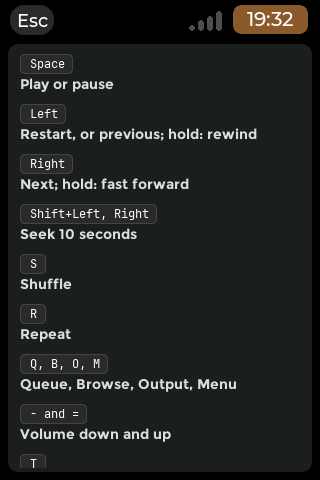
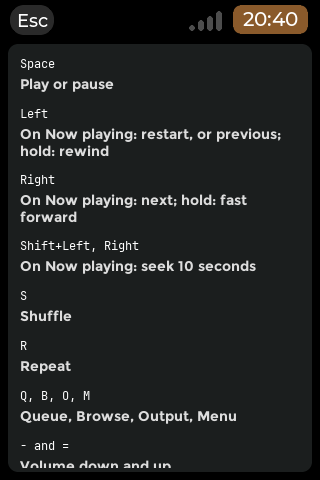
Vinyl 0.2.0 docs: design QA run 1, texts to confirm, Keys and Sleep shots
decisions.md: "Design QA of 0.2.0, run 1": the keypad echo, Ctrl+O, long
and CJK names, pick lists that close (owner-approved), the coordinator's
decisions (About and keys as two rows, This album or queue, the ReplayGain
pick list as the coordinator's design), the Sleep timer strip, the Keys
page, the texts for the owner to confirm. README: those texts, Ctrl+O, seven
transport keys at 480x320, the grey not-connected output, 77 scenes.
BOARD-TESTS: B32 presses T, R and 9; B33 follows the closing page.
Screenshots retaken: 13 (the Sleep timer's strip after the rows), 16 and 19
(the Keys page's flat key names).

Claude-Session: https://claude.ai/code/session_01DZirtLRRFpxSjax5Qp5ZSW

diff --git a/apps/vinyl/README.md b/apps/vinyl/README.md
@@ -38,11 +38,11 @@ The deck (640x480), square (480x480) and large (800x480, two panes), the Menu an
 | **Browser** (the root) | `~/Music` and the mounted drives (`/media/<user>`, `/run/media/<user>`, `/mnt`): folders A-Z, playlists (`.m3u`, `.m3u8`), tracks A-Z (natural order) with their title tags and lengths; the mini player at the bottom. A track plays its folder as the queue; a playlist plays its entries. |
 | **Now playing** | cover art (embedded JPEG or PNG, else the drawn sleeve) with the record sliding out (its label about a third out, with a dot and a centre ring that show it turning), title (one line that scrolls, or two lines on the 640x480, square and large screens), artist, album and year, the format and Gapless as information (one line at 480x320, flat chips at 640x480, plain text elsewhere; on the square and large screens the playing track's ReplayGain after it, "Gapless, RG -3.2 dB"), the output (a full-width button with the device's name and a chevron; a chip on 800x480 and wider), the volume group ("-", the level on teal, "+"); the position with a seek bar (a tap seeks, a drag scrubs), previous, play / pause, next, shuffle, repeat (off, all, one: a teal mark, and a "1" for one); the Menu key (the sliders icon: the seventh transport key at 480x320, the sixth on the square screens, an icon key at the left of the bottom row in portrait, a bottom-row key with its word on 640x480 and 800x480 and wider); the queue key (480x320) or the Queue key of the bottom row; the Browse key (640x480, square, large); up next (square), the queue pane and the sleep-timer key (large). An empty queue dims the transport keys, which then do nothing (the Queue, Browse, Menu and sleep-timer keys stay: they open their pages). |
 | **Queue** | the play order from the playing track, "3 OF 20, 1 H 24 MIN LEFT"; Move up, Move down, Remove, Clear all (asks first: "Clear the queue?", Cancel, the default, or Clear; it keeps the playing track). An empty queue dims the four buttons; with only the playing track, Move up, Move down and Clear all are dimmed. No dragging in the lists (the seek bar is the one control that drags). |
-| **Output** | Automatic (the system's default output), the Bluetooth devices (music or call quality), the wired outputs, a paired device that is off (dimmed). Vinyl never switches output by itself: when the output in use goes away, playback pauses ("Evolve 65 disconnected. Paused."). |
+| **Output** | Automatic (the system's default output), the Bluetooth devices (music or call quality), the wired outputs, a paired device that is off (grey: a tap says how to connect it). Vinyl never switches output by itself: when the output in use goes away, playback pauses ("Evolve 65 disconnected. Paused."). |
 | **Menu** (P2a) | TOOLS: Sleep timer (Off, the time left, or the track mode); SETTINGS: Playback, Output (the output's name: it opens the Output page), Keys, About. Only what is built is listed (the Equalizer and the Library come later). |
-| **Sleep timer** | Stop playing after: Off, 15, 30 or 60 minutes, This track, This album or queue (the chosen one has the blue dot); while it runs, "Stops in 29:12. The music fades out for the last 10 seconds." The minutes count from the choice, playing or paused; the last 10 s fade out, then the music pauses ("Sleep timer ended. Paused."). This track stops at the end of the track that plays, This album or queue before the next album (the album tag, else the folder) or at the end of the queue (a playlist plays to its end); the queue then waits on the next track, paused. The timer runs on while you change pages and while Vinyl is hidden; a restart forgets it; it pauses the music and nothing else. |
+| **Sleep timer** | Stop playing after: Off, 15, 30 or 60 minutes, This track, This album or queue (the chosen one has the blue dot; a choice closes the page, the Menu shows the time left); while it runs, "Stops in 29:12. The music fades out for the last 10 seconds." The minutes count from the choice, playing or paused; the last 10 s fade out, then the music pauses ("Sleep timer ended. Paused."). This track stops at the end of the track that plays, This album or queue before the next album (the album tag, else the folder) or at the end of the queue (a playlist plays to its end); the queue then waits on the next track, paused. The timer runs on while you change pages and while Vinyl is hidden; a restart forgets it; it pauses the music and nothing else. |
 | **Playback** | Gapless (On: the next track continues on the same stream when its format is the same; Off: a short gap at every change), ReplayGain (Off / Track / Album, Track by default: the loudness from the files' tags), Remember position in long files (On: a file longer than 20 minutes starts again where you left it). Enter or a tap turns Gapless and Remember on or off; ReplayGain opens its list. |
-| **Keys** | every key and what it does, the key on a key chip; it scrolls. |
+| **Keys** | every key and what it does (the key's name, then its action; the rows of now playing say so); it scrolls. |
 | **About** | the version, the formats, THIS OUTPUT (the playing output's range and levels, "Sharkoon Mobile DAC: -45.0 to 0.0 dB, 23 levels of 2.05 dB."), the libraries, where the licences are. |
 
 The top band is the launcher's: the toolkit's header with the title (none at 320x480, the toolkit's narrow portrait), the
@@ -59,8 +59,8 @@ output lists are read in the background).
 | Seek | Shift+Left / Shift+Right: back / forward 10 s (now playing) | tap the seek bar where to go, or press on it and drag: the knob follows the finger, the times show where it will land, and the seek happens when you let go (playing or paused; nothing else starts from a press on the bar) |
 | Shuffle / repeat | S / R | the keys left and right of the transport |
 | Queue, Output, Browser | Q, O, B | the Queue key; the output button (the output chip on 800x480 and wider; the Menu's Output row too); Browse (or Esc from now playing) |
-| Menu, Sleep timer | M, T | the Menu key (the sliders icon, see Now playing); the sleep-timer key (800x480 and wider) or the Menu's Sleep timer row |
-| Menu pages: move, act, back | Up / Down (the headings skipped), Enter or Right acts, Left goes back; Keys and About: Up / Down scroll | a tap on a row acts (opens it, chooses it, turns it on or off); Keys and About scroll by a drag |
+| Menu, Sleep timer | M (or Ctrl+O, the options key: a pointer's held click), T | the Menu key (the sliders icon, on every now-playing layout); the sleep-timer key (800x480 and wider) or the Menu's Sleep timer row |
+| Menu pages: move, act, back | Up / Down (the headings skipped), Enter or Right acts, Left goes back; Keys and About: Up / Down scroll | a tap on a row acts (opens it, turns it on or off; a choice on the Sleep timer or ReplayGain list closes the list); Keys and About scroll by a drag |
 | Lists: move, act, back | Up / Down, Enter; Right acts as Enter and Left goes back (queue, output; in the browser Right opens a folder) | browser: tap a row; queue: tap selects, tap again plays; output: tap chooses |
 | Folder up | Left or Backspace (browser) | the ".." row |
 | Queue pane (800x480 and wider) | Up / Down pick a track, Enter plays it | tap picks, tap again plays |
@@ -144,6 +144,15 @@ Korean titles draw with the launcher's Noto Sans CJK.
   (`~/.config/vinyl/state.json`, `app_muted`). The sound server's placeholder output at start (`auto_null`) never shows a
   level.
 
+### Texts for the owner to confirm
+
+Written for 0.2.0 where the canvas has none (`docs/decisions.md`, "Design QA of 0.2.0, run 1"): the notice "Sleep timer
+ended. Paused."; the Sleep timer page's status lines "Stops at the end of this track. The music fades out for its last 10
+seconds." and "Stops at the end of this album or queue. The music fades out for its last 10 seconds." (the minute modes'
+"Stops in 29:12. ..." is the canvas's); the Menu values "This track" and "This album"; the ReplayGain pick list's strip
+"Track: every track as loud as the others. Album: an album keeps its own loudness steps. Files without ReplayGain tags
+play as they are."; the Keys page's actions after the canvas's eight rows.
+
 ## ReplayGain
 
 From the files' tags only (decision D25: no analysis on the board; tag the files with a PC tool such as rsgain or
@@ -177,7 +186,7 @@ plays in front (`dim allow`, decision D16).
 ## Requirements
 
 - A screen of 480x320 or more (`X-MinSize=480x320`): the smallest approved draft is 480x320, where the sleeve beside the
-  title, artist, format line, output button and volume group and a row of six transport keys already take the whole
+  title, artist, format line, output button and volume group and a row of seven transport keys already take the whole
   width; a smaller screen gets the launcher's notice. A portrait layout for 320x480 and taller (`X-Portrait=320x480`).
 - The layouts (owner-approved drafts): 480x320 (and landscape screens of that shape under 480 px high or under 640 px
   wide), 640x480 (4:3 screens 640 to 799 px wide and 480 px or more high: the deck), square (480x480, 720x720),
@@ -234,7 +243,7 @@ the FLAC / Opus readers come from this repository's Cassette (same author, MIT).
 
 ```sh
 wsl -e sh apps/vinyl/tests/run.sh               # the unit tests (-Werror) and the real-library fixtures
-wsl -e sh apps/vinyl/build.sh host              # harness, unit tests, 68 scenes (qa* for the design QA), sheets
+wsl -e sh apps/vinyl/build.sh host              # harness, unit tests, 77 scenes (qa* for the design QA), sheets
 wsl -e sh apps/vinyl/build.sh cross             # the arm64 binary; --arch amd64 for PCs
 wsl -e sh apps/vinyl/tests/abi/run.sh [root]    # the hand-written FFmpeg / mpg123 / vorbisfile ABI against headers
 python3 tools/make_registry.py --only vinyl --out <folder>    # a local .deb (not published)

diff --git a/apps/vinyl/docs/decisions.md b/apps/vinyl/docs/decisions.md
@@ -461,12 +461,12 @@ tags only, Off / Track / Album, default Track) "OK"; D32 (Menu and Playback show
 - **The Menu page** in the Browser's look (the dark panel at the class's scale; the medium class the 480x320 drawing
   scaled, portrait the Menu-320x480 drawing with 44 px rows): TOOLS: Sleep timer (Off, or the time left; "This track",
   "This album" for the track modes); SETTINGS: Playback, Output (the output's name), Keys, About (the canvas has one row
-  "About and keys": the brief makes them two). No Equalizer and no Library row until their phases (D32). Rows act on the
+  "About and keys": two rows, the coordinator's decision, owner informed, below). No Equalizer and no Library row until their phases (D32). Rows act on the
   first tap, as the Browser's and the Output page's; Up / Down move (the headings skipped), Enter or Right act, Left
   goes back (design QA D-29). Esc goes back to the page the Menu was opened from; its pages go back to the Menu.
 - **The Sleep timer page:** STOP PLAYING AFTER: Off, 15 minutes, 30 minutes, 60 minutes, This track, This album or
-  queue (the brief's words; the canvas says "This album or playlist"); the chosen one has the blue dot and the page stays
-  open after a choice. While the timer runs, the status line at the bottom: "Stops in 29:12. The music fades out for the
+  queue (the canvas says "This album or playlist": the coordinator's decision, owner informed, below); the chosen one has
+  the blue dot, and a choice closes the page (the owner-approved behaviour, below). While the timer runs, the status line at the bottom: "Stops in 29:12. The music fades out for the
   last 10 seconds." (the canvas's words), "Stops at the end of this track. ..." and "Stops at the end of this album or
   queue. ..." for the track modes (the builder's words). The minute modes count on the monotonic clock whether the music
   plays or not, and fade over their last 10 s, linear in dB to -60 dB; the track modes name no next track where playback
@@ -476,7 +476,7 @@ tags only, Off / Track / Album, default Track) "OK"; D32 (Menu and Playback show
   change and while Vinyl is hidden (X-Background=run); it is not saved, so a restart forgets it. When it ends it pauses
   the music and nothing else, and says so: "Sleep timer ended. Paused." (the builder's words).
 - **The Playback page:** Gapless (On by default; Off: every track change drains the stream and opens it again), ReplayGain
-  (Track by default, D25: its pick list Off / Track / Album, in the Sleep timer page's style; it stays open after a choice),
+  (Track by default, D25: its pick list Off / Track / Album, in the Sleep timer page's style; a choice closes it),
   Remember position in long files (On by default); Enter or a tap toggles Gapless and Remember; no Speed and no Crossfade
   row (D32). The canvas's strip keeps its first sentence, "ReplayGain evens out the loudness between tracks." ("Crossfade
   needs a faster board" goes with the Crossfade row, and report 060 3c contradicts it). The pick list's strip: "Track:
@@ -513,3 +513,45 @@ tags only, Off / Track / Album, default Track) "OK"; D32 (Menu and Playback show
   toolkit's LIST_ROW; they act on the first tap (as the Browser's rows, accepted for P1). The new 480x320 and 320x480
   scenes run at the 3.5-inch panel's 6.3 px/mm (ppmm 630, design QA's rule for new scenes) with allow-small: the approved
   480x320 layout's volume group and seek row are 43 px there, ROW 44 (the WARN lines of their report.txt).
+
+## Design QA of 0.2.0, run 1 (2026-11-13)
+
+The QA's three FAILs (D-01, D-32, D-55) and the coordinator's rulings on its WARNs and questions, in one rebuild:
+
+- **The keypad's echo (D-32):** after every key event the toolkit's keypad hands LVGL a key too: a navigation key's own,
+  an F / X / Z / C alias's arrow, and for any other key its raw code unchanged (cp0_keyboard_lvgl_input.c at the pin).
+  The raw codes of W, E, R, T (17-20) are LVGL's Up, Down, Right, Left, and those of the digits 1, 2, 7, 8, 9, 0 are
+  Home, End, Backspace, Next, Enter, Prev: T opened the Sleep timer page and its echo went straight back, R toggled repeat
+  and acted as Right on the selected row of every list page (since 0.1.0 on Queue and Output), 9 acted as Enter. Fixed as
+  the launcher's decision of 2026-10-05 says ("a real W/E/R/T press is recorded and the matching native key within 300 ms
+  is ignored"), generalised (`core/nav/key_echo`, tested with a fake keypad): the echo of any key that is not a
+  navigation key, when it is an LVGL key, is dropped; an alias's arrow only when Vinyl used the letter (X and C on the
+  queue page), so F / X / Z / C stay a small keyboard's arrows elsewhere. The scenes press M, T, R, 9 and Esc on the Menu
+  pages.
+- **Ctrl+O** (D-42, the pointer's held click, AC 10b): the options key opens the Menu; plain O stays Output. The Menu key
+  is drawn on every now-playing layout (tests/test_menu.cpp checks one per class), so a pointer reaches the Menu there
+  by a click too.
+- **Long and CJK output names (D-01, D-55):** the Menu's Output value scrolls in its own room when it is wider than what
+  the row's label leaves (the label keeps its width, up to 60 % of the row), as now playing's output button scrolls a long
+  name; About's THIS OUTPUT line breaks after ": " and ", " and wraps a long name. The scenes qa-names-cjk (a headset named
+  "寝室のワイヤレスヘッドホン", CJK tags) and qa-names-long ("Living room speaker, Bose SoundLink Revolve+ II") show now
+  playing, the Menu, About and the Output page at every QA size (the demonstration world's VINYL_DEMO_BT_NAME).
+- **Pick lists close after a choice** (the owner-approved behaviour, relayed by the coordinator, 2026-11-13): a choice on
+  the Sleep timer page or the ReplayGain pick list closes it and the page it was opened from shows the new value (the
+  Menu's time left, Playback's ReplayGain value); Esc and Left still go back without a change.
+- **The coordinator's decisions, owner informed (2026-11-13):** the canvas's Menu row "About and keys" is two rows, Keys
+  and About; "This album or queue" replaces the canvas's "This album or playlist". **The ReplayGain pick list** has no
+  board on the canvas: it is the coordinator's design, in the Sleep timer page's style (the heading "REPLAYGAIN", the
+  three choices with their dots, a help strip).
+- **The Sleep timer page's strip** (the deck's Sleep timer page hid "This album or queue" under it while a timer ran): it
+  stays at the panel's bottom where the rows fit above it, and otherwise follows the last row in the scrolling list, so
+  no row is ever under it (the strip comes into view by scrolling).
+- **The Keys page** (D-37, D-81): the key names are drawn flat (no key look: they do nothing), on their action's line
+  (landscape; they sat 7-14 px above it where LIST_ROW raised the row) or above it (portrait); a row grows to an action
+  of two lines. The rows of now playing say so ("On Now playing: ..."), Enter on now playing, Backspace in the browser,
+  the queue pane and Ctrl+O are listed.
+- **Texts for the owner to confirm** (the builder's words, kept): "Sleep timer ended. Paused."; the status lines "Stops
+  at the end of this track. The music fades out for its last 10 seconds." and "Stops at the end of this album or queue.
+  The music fades out for its last 10 seconds."; the Menu values "This track" and "This album"; the ReplayGain pick
+  list's strip "Track: every track as loud as the others. Album: an album keeps its own loudness steps. Files without
+  ReplayGain tags play as they are."; the Keys page's actions after the canvas's rows. Listed in the README too.

diff --git a/apps/vinyl/tests/BOARD-TESTS.md b/apps/vinyl/tests/BOARD-TESTS.md
@@ -88,8 +88,8 @@ DAC, or the deck at 640x480):
 
 | # | Do | Expected |
 |---|---|---|
-| B32 | Every layout you have (the HackBerry square, PDA portrait, the deck's 640x480, a 480x320 board, 800x480): tap the Menu key (the sliders icon), Esc; then press M, Esc; on 800x480 also tap the sleep-timer key | the key sits where the drafts draw it: 480x320 the seventh transport key after Queue, square the sixth transport key, portrait the first key of the bottom row (then Queue, then the volume group), 640x480 Browse, Queue, Menu, then the volume group, 800x480 Browse, Menu, then the volume group (no Output key: the output chip opens Output); the Menu lists TOOLS: Sleep timer (Off), SETTINGS: Playback, Output (the output's name), Keys, About, nothing else (no Equalizer, no Library); Esc goes back to now playing; the 800x480 sleep-timer key opens the Sleep timer page |
-| B33 | Sleep timer: in a track's last minute choose This track; then choose 15 minutes and leave it running during B34-B37 (on the HackBerry, hide Vinyl with Super for the last minutes) | This track: the status line "Stops at the end of this track. ..."; the last 10 s fade out evenly, the music pauses, the next track waits paused, the notice "Sleep timer ended. Paused."; the Menu's row back to Off. 15 minutes: "Stops in 14:59" counting down (the Menu row shows the time left), the last 10 s fade, then a pause on time, also while hidden; nothing else changes (the queue, the page) |
+| B32 | Every layout you have (the HackBerry square, PDA portrait, the deck's 640x480, a 480x320 board, 800x480): tap the Menu key (the sliders icon), Esc; then press M, Esc; press T, Esc; with a keyboard on the Menu press R and 9; on 800x480 also tap the sleep-timer key | the key sits where the drafts draw it: 480x320 the seventh transport key after Queue, square the sixth transport key, portrait the first key of the bottom row (then Queue, then the volume group), 640x480 Browse, Queue, Menu, then the volume group, 800x480 Browse, Menu, then the volume group (no Output key: the output chip opens Output); the Menu lists TOOLS: Sleep timer (Off), SETTINGS: Playback, Output (the output's name), Keys, About, nothing else (no Equalizer, no Library); Esc goes back to now playing; T opens the Sleep timer page and it stays (Esc goes back); R toggles repeat and nothing else (no row opens), 9 does nothing; the 800x480 sleep-timer key opens the Sleep timer page |
+| B33 | Sleep timer: in a track's last minute choose This track; then choose 15 minutes and leave it running during B34-B37 (on the HackBerry, hide Vinyl with Super for the last minutes) | a choice closes the page, the Menu row shows the mode or the time left. This track: the status line "Stops at the end of this track. ..." (open the page again); the last 10 s fade out evenly, the music pauses, the next track waits paused, the notice "Sleep timer ended. Paused."; the Menu's row back to Off. 15 minutes: "Stops in 14:59" counting down (the Menu row shows the time left), the last 10 s fade, then a pause on time, also while hidden; nothing else changes (the queue, the page) |
 | B34 | Menu > Playback > ReplayGain: Track, then Off; play LOUD-rg and QUIET-rg in turn (B31's files of report 060 if the Controller has them) | Track: the two play at about the same loudness (the journal's `replaygain LOUD-rg.mp3: track -9.00 dB ...`); Off: LOUD clearly louder; the volume group shows the same level all the time (ReplayGain never moves the output's level). On the HackBerry the chip reads "Gapless, RG -9.0 dB" |
 | B35 | Menu > Playback: Gapless Off, ReplayGain Album, Remember position Off; quit Vinyl (Esc at the browser), open it again, Menu > Playback; then set them back (On, Track, On) | the three values are kept after the restart (`~/.config/vinyl/settings.json`); with Gapless Off a change between two tracks of the same format has a short gap (an album that was gapless now clicks or pauses briefly) |
 | B36 | Play the hour-long file to about 20:00, open another track, then the long file again; then a 4-minute track from its folder; quit and open Vinyl, play the long file from the browser | the long file starts again at about 20:00 (the journal: `long file: starts at 0:20:..`), the short track at 0:00; after the restart the long file still starts at about 20:00 |
